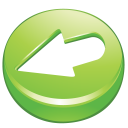
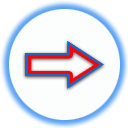
merge

diff --git a/app/index.html b/app/index.html
@@ -17,8 +17,6 @@
         <script src="bower_components/html5-boilerplate/js/vendor/modernizr-2.6.2.min.js"></script>
     </head>
     <body ng-controller="mainCtrl">
-        UserInfo={{userInfo}}
-        <!--{{isAuthenticated}}-->
         <div id="header">
             <div class="navbar navbar-default navbar-fixed-top">
                 <div class="navbar-inner">
@@ -30,13 +28,13 @@
                                 <span ng-bind="translation.anrusstrans"></span>
                             </a>
                         </li>
-                        <li class="active">
+<!--                        <li class="active">
                             <a href="#">Buy</a></li>
-                        <li><a href="#">About</a></li>
+                        <li><a href="#">About</a></li>-->
                         <li ng-controller="cartStatusCtrl">
                             <a href="#/app/cart"><img src="img/cart.gif"/>
-                                <span ng-if="size > 0" ng-bind="size"></span> <span ng-bind="translation[content]"></span>
-
+                                <span ng-bind="translation[content]"></span><span ng-if="size > 0" ng-bind="size"></span> 
+                                <!--<span ng-if="size > 0">{{size}}</span> {{translation[content]}}-->
                             </a>
                         </li>
                     </ul>
@@ -59,7 +57,9 @@
                                 </li>
                             </ul>
                         </li>                        
-                        <li class="language"><span ng-bind="translation.lang">:</span>
+                       <li class="lan"><span ng-bind="translation.lang"></span></li>
+                        <li class="language"><span></span>
+                        <!--<li class="language">{{translation.lang}}:-->
                             <select class="form-control" ng-change="translate()" ng-model="selectedLanguage">
                                 <option value="en">English</option>
                                 <option value="ru">Русский</option>
@@ -78,12 +78,12 @@
 
         <div ng-view></div>
 
-        <div>
+<!--        <div>
             <hr>
             [ footer ]
             <br>
             <span>&copy;<a href="mailto:notreal@mail.ru">Notreal</a></span>
-        </div>
+        </div>-->
 
         <!-- In production use:
         <script src="//ajax.googleapis.com/ajax/libs/angularjs/x.x.x/angular.min.js"></script>

diff --git a/app/app/checkout/checkout.html b/app/app/checkout/checkout.html
@@ -1,24 +1,24 @@
-{{checkout.Cart}}
+<!--{{checkout.Cart}}-->
 <br>
-OrderId = {{checkout.orderId}}
+<!--OrderId = {{checkout.orderId}}-->
 <div class="row-fluid">
 
     <div class="span7 offset1" ng-hide="checkout.orderId">
     <h1>{{translation.checkout}}</h1>
-    {{ checkout.purchase}}
+    <!--{{ checkout.purchase}}-->
     <!--<div style="background-color: lightgray">-->
         <table class="table table-bordered table-hover">
             <thead>
                 <tr>
-                    <td>Subtotal</td>
-                    <td>Delivery</td>
-                     <td>{{translation.total}}</td>
+<!--                    <td>Subtotal</td>
+                    <td>Delivery</td>-->
+                    <td>{{translation.total}}</td>
                 </tr>
             </thead>
             <tbody>
                 <tr>
-                    <td>{{checkout.subtotal}}</td>
-                    <td>{{checkout.surcharge}}</td>
+<!--                    <td>{{checkout.subtotal}}</td>
+                    <td>{{checkout.surcharge}}</td>-->
                     <td>{{checkout.total}}</td>
                 </tr>
             </tbody>
@@ -49,12 +49,12 @@ OrderId = {{checkout.orderId}}
         <div class="control-group">
             <label class="control-label" for="inputPhone">{{translation.phone}} :</label>
             <div class="controls">
-                <input type="text" name="inputPhone" placeholder="Phone" ng-model="checkout.purchase.phone" required>
+                <input type="text" name="inputPhone" placeholder={{translation.phone}} ng-model="checkout.purchase.phone" required>
             </div>
         </div>
         <div class="form-actions">
-            <button class="btn btn-large btn-primary" type="button" ng-disabled="checkoutForm.$invalid" ng-click="checkout.submitPurchase()">Submit Purchase</button>
-            <button class="btn btn-large" type="button" ng-click="checkout.cancelPurchase()">Cancel</button>            
+            <button class="btn btn-large btn-primary" type="button" ng-disabled="checkoutForm.$invalid" ng-click="checkout.submitPurchase()">{{translation.SubmitPurchase}}</button>
+            <button class="btn btn-large" type="button" ng-click="checkout.cancelPurchase()">{{translation.cancel}}</button>            
         </div>
     </form>
     </div>

diff --git a/app/app/orderedTicket/orderedTicket.html b/app/app/orderedTicket/orderedTicket.html
@@ -1,9 +1,11 @@
-<!--order = {{orderedTicket.order}}-->
+<!--order = {{orderedTicket.order}}
+ticket = {{ticket.ticket}}-->
 <br>
 <button class="btn btn-large" ng-click="orderedTicket.gotoBack()">{{translation.back}}</button>
 <table class="table table-striped">
     <thead>
         <tr>
+            <td>Номер брони</td>
             <td>Дата заказа</td>
             <td>{{translation.cost}}</td>
             <td>Контактное лицо</td>
@@ -13,6 +15,7 @@
     </thead>
     <tbody>
         <tr>
+            <td>{{orderedTicket.order.confirmationNumber}}</td>
             <td>{{orderedTicket.order.dateCreated| date : 'medium'}}</td>
             <td>{{orderedTicket.order.amount}}</td>
             <td>{{orderedTicket.order.firstName}} {{orderedTicket.order.lastName}}</td>
@@ -26,12 +29,13 @@
                         <tr>
                             <td>Категория</td>
                             <td>Тип</td>
-                            <td>Данные</td>
-<span ng-if="ticket.category.id===1">
+                            <!--<td>Данные</td>-->
+                            <span ng-if="ticket.category.id===1">
                               <td>{{translation.firstName}}</td>
                               <td>{{translation.lastName}}</td>
                               <td>{{translation.middleName}}</td>
                             </span>
+                            <td>{{translation.price}}</td>
                         </tr>
                     </thead>
                     <tbody>
@@ -44,7 +48,7 @@
                               <td>{{ticket.lastName}}</td>
                               <td>{{ticket.middleName}}</td>
                             </span>  
-                            <!--<td>{{ticket.price}}</td>-->
+                            <td>{{ticket.ticket.price}}</td>
                         </tr>
                     </tbody>
                 </table>

diff --git a/app/app/cart/cart.html b/app/app/cart/cart.html
@@ -1,9 +1,10 @@
 Cart: {{cart.Cart}}
+<!--Cart: {{cart.cart}}
+Cart: {{cart.cart.items[0]}}-->
 <br>
-orderedTicketCollection: {{cart.otc}}
-<!--<br>
-allDoc: {{cart.allSupportingDocuments}}-->-->
-<div>{{ 4 | date:'MMM'}}</div>
+<!--allDoc: {{cart.allDocuments}}-->
+
+
 
 
 <div class="row-fluid">
@@ -20,7 +21,7 @@ allDoc: {{cart.allSupportingDocuments}}-->-->
 
 <div class="row-fluid">
     <div class="span10 offset1">
-        <h1>The content of your cart is:</h1>
+        <!--<h1>The content of your cart is:</h1>-->
         <form name="form" class="form-horizontal" novalidate>
             <table class="table table-striped">
                 <tr ng-repeat="ticket in cart.content">
@@ -28,9 +29,6 @@ allDoc: {{cart.allSupportingDocuments}}-->-->
                         <img ng-src="img/ticket/{{ticket.name}}.png"/>
                     </td>
                     <td>
-
-                        <!--<br>-->
-                        <!--<label class="control-label" for="inputTicketData">{{translation.ticketdata}} :</label>-->
                         <span ng-if="ticket.category.id === 1">
                             <label class="control-label" for="inputFirstName">{{translation.firstName}} :</label>
                             <input type="text" name="inputFirstName" placeholder={{translation.firstName}} ng-model="ticket.firstName" required>
@@ -73,7 +71,7 @@ allDoc: {{cart.allSupportingDocuments}}-->-->
                                                   </div>
                                                 </div>-->
                     </td>
-                    <td>{{translation[ticket.name]}}</td>
+                    <td width="250">{{translation[ticket.name]}}</td>
                     <td>{{ticket.price}}</td>
                     <td><button class="btn btn-warning" ng-click="cart.remove(ticket)">{{translation.remove}}</button></td>
                 </tr>

diff --git a/app/app/route/route.html b/app/app/route/route.html
@@ -1,11 +1,31 @@
-Cart: {{ticket.Cart}}
+ <!--Test = {{route.test}}-->
 <br>
-<button ng-click="route.testClick()">testClick</button>
-<ul ng-repeat="currentRoute in route.allRoutes">
+<table>
+    <tr>
+        <td width=250 ng-repeat="currentRoute in route.allRoutes">
     <li ng-click="route.clickRoute(currentRoute)">
-        <a href="#/app/category">
-            <img ng-src="img/route/{{currentRoute.name}}.png"/>
+         <a href="#/app/category"><img src="img/route/{{currentRoute.name}}.png" title="Из порта Крым в порт Кавказ" alt="0" id="arrow1" class="arrow-krym"></a>
+       <a href="#/app/category" {{currentRoute.name}}>
             {{translation[currentRoute.name]}}
         </a> 
+        <br>
+        <a href="#/app/category">
+            <img ng-src="img/route/{{currentRoute.name}}.png"/>
+            
+        </a>
     </li>
-</ul>
+        </td>
+    </tr>
+<table>
+ 
+    
+<!--    <li ng-click="route.clickRoute(1)">
+        <a href="#/app/category"><img src="img/route/krym_kavkaz.png" title="Из порта Крым в порт Кавказ" alt="0" id="arrow1" class="arrow-krym"></a>
+    </li>    
+<a href="#/app/category"><img src="img/route/kavkaz_krym.png" title="Из порта Кавказ в порт Крым" alt="0" id="arrow2" class="arrow-kavkaz" ng-click="route.clickRoute(currentRoute)"></a>-->
+
+
+
+<div style="text-align: left;"><img
+ style="width: 653px; height: 408px;" alt="map"
+ src="img/route/map1.png">

diff --git a/app/app/signup/signup.html b/app/app/signup/signup.html
@@ -1,9 +1,9 @@
-userInfo = {{signup.xxx }}
+<!--userInfo = {{signup.xxx }}
 user = {{ signup.user}}
-salt = {{ signup.salt}}
+salt = {{ signup.salt}}-->
 <br>
     <form name="signupForm" ng-submit="signup.submit(signup.user)">
-        test = {{my.test}}
+        <!--test = {{my.test}}-->
         <input type="email" name="inputEmail" placeholder="E-Mail" ng-model="signup.user.email" ng-required>
         <br>
         <input type="password" name="inputPassword" placeholder={{translation.password}} ng-model="signup.user.password" ng-required>
@@ -20,5 +20,5 @@ salt = {{ signup.salt}}
         <br>
         <button type="submit" class="btn btn-default pull-left" ng-disabled="signupForm.$invalid">{{translation.signup}}</button>
 <div class="span1 offset0"></div>
-<button type="button" class="btn btn-default pull-left" ng-click="signup.cancel()">{{translation.cancel}}</button>
+        <button type="button" class="btn btn-default pull-left" ng-click="signup.cancel()">{{translation.cancel}}</button>
     </form>

diff --git a/app/app/category/category.html b/app/app/category/category.html
@@ -1,8 +1,32 @@
 <ul ng-repeat="currentCategory in category.allCategories">
     <li>
-        <a ng-href="#/app/ticket/{{currentCategory.id}}">
+        <a ng-href="#/app/ticket/{{currentCategory.id}}" ng-click="category.savePath()">
             <img ng-src="img/category/{{currentCategory.name}}.png"/>
             {{translation[currentCategory.name]}}
         </a> 
     </li>
 </ul>
+
+
+
+
+
+<!--<div class="row-fluid">
+
+    <div class="span7 offset1">
+  <div class="form-actions">
+<ul ng-repeat="currentCategory in category.allCategories">
+    <span>
+        <a ng-href="#/app/ticket/{{currentCategory.id}}">
+            <img ng-src="img/category/{{currentCategory.name}}.png"/>
+                  
+
+        <div class="btn-group">
+            <button class="btn btn-large btn-primary" type="button" aria-expanded="false">{{translation[currentCategory.name]}}</button>
+        </div>
+        </a>
+    </span>
+</ul>
+  </div>
+    </div>
+</div>-->

diff --git a/app/common/authFactory.js b/app/common/authFactory.js
@@ -2,7 +2,7 @@
 
 angular
         .module('aStore')
-        .factory('authFactory', function ($rootScope, $http, $window) {
+        .factory('authFactory', function ($rootScope, $http, $window, REST) {
 
             var authFactory = {
                 authData: undefined
@@ -26,7 +26,9 @@ angular
             };
 
             authFactory.login = function (user) {
-                return $http.post('http://localhost:8080/aStore/rest/user/login', user);
+//                return $http.post('http://localhost:8080/aStore/rest/user/login', user);
+                return $http.post(REST.fullUrl + '/user/login', user);
+
             };
 
             authFactory.logout = function () {

diff --git a/app/app/ticket/ticketCtrl.js b/app/app/ticket/ticketCtrl.js
@@ -14,7 +14,7 @@ function config($routeProvider) {
 }
 ;
 
-function ticketCtrl($routeParams, TicketService, CartService) {
+function ticketCtrl($routeParams, TicketService, CartService, LocationService) {
     var vm = this;
     vm.Cart = CartService; // для отображения на экране
 //    vm.allTickets = TicketService.findByCategory({categoryId: $routeParams.categoryId});
@@ -23,5 +23,9 @@ function ticketCtrl($routeParams, TicketService, CartService) {
     vm.addToCart = function (ticket) {
         CartService.add(ticket);
     };
+    
+    vm.gotoBack = function() {
+        LocationService.gotoBack();
+    }
 }
 ;

diff --git a/app/app/order/order.html b/app/app/order/order.html
@@ -2,6 +2,7 @@
 <table class="table table-striped table-hover">
     <thead>
         <tr>
+            <td>Номер брони</td>
             <td>Дата заказа</td>
             <td>{{translation.cost}}</td>
             <td>Контактное лицо</td>
@@ -11,6 +12,7 @@
     </thead>
     <tbody>
         <tr ng-repeat="curOrder in order.allOrders" ng-click="order.orderedTicket(curOrder)">
+            <td>{{curOrder.confirmationNumber}}</td>
             <td>{{curOrder.dateCreated| date : 'medium'}}</td>
             <td>{{curOrder.amount}}</td>
             <td>{{curOrder.firstName}} {{curOrder.lastName}}</td>

diff --git a/app/css/app.css b/app/css/app.css
@@ -45,6 +45,9 @@ body {
 #header .language {
     padding-top: 6px;
 }
+#header .lan {
+    padding-top: 10px;
+}
 
 #header .form-control {
     padding-top: 0px;
@@ -65,4 +68,26 @@ button.disabled {
     cursor: default;
     text-decoration: none;
     padding-left: 100px;
+}
+
+/* ARROW1 ------------------------------------------------------------*/
+
+img#arrow1{
+    position: relative;
+    top: 255px;
+}
+
+img.arrow-krym{
+    left: 260px;
+}
+
+/* ARROW2 ------------------------------------------------------------*/
+
+img#arrow2{
+    position: relative;
+    top: 255px;
+}
+
+img.arrow-kavkaz{
+    left: 270px;
 }

diff --git a/app/app/ticket/ticket.html b/app/app/ticket/ticket.html
@@ -1,9 +1,13 @@
-Cart: {{ticket.Cart}}
+<!--Cart: {{ticket.Cart}}-->
+<br>
+<button class="btn btn-large" ng-click="ticket.gotoBack()">{{translation.back}}</button>
+<br>
 <br>
 {{translation.HELLO_TICKET}}
 <table class="table table-striped">
     <tr ng-repeat="currentTicket in ticket.allTickets">
         <td>
+            <!--{{currentTicket}}-->
             <img ng-src="img/ticket/{{currentTicket.name}}.png"/>
         </td>
         <td>
